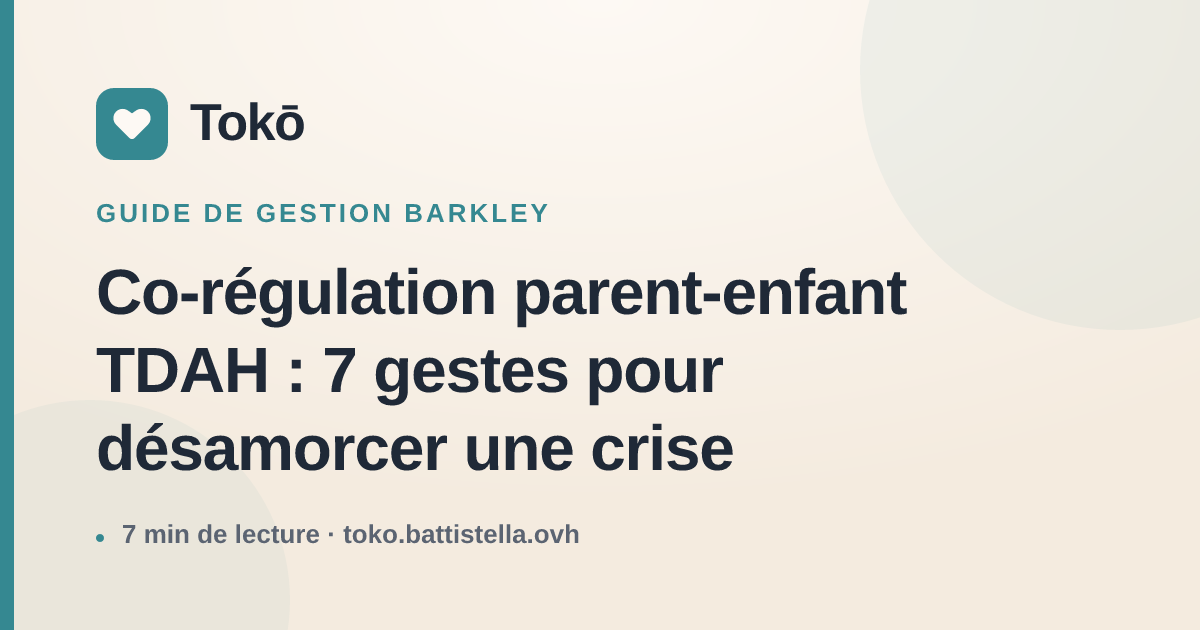
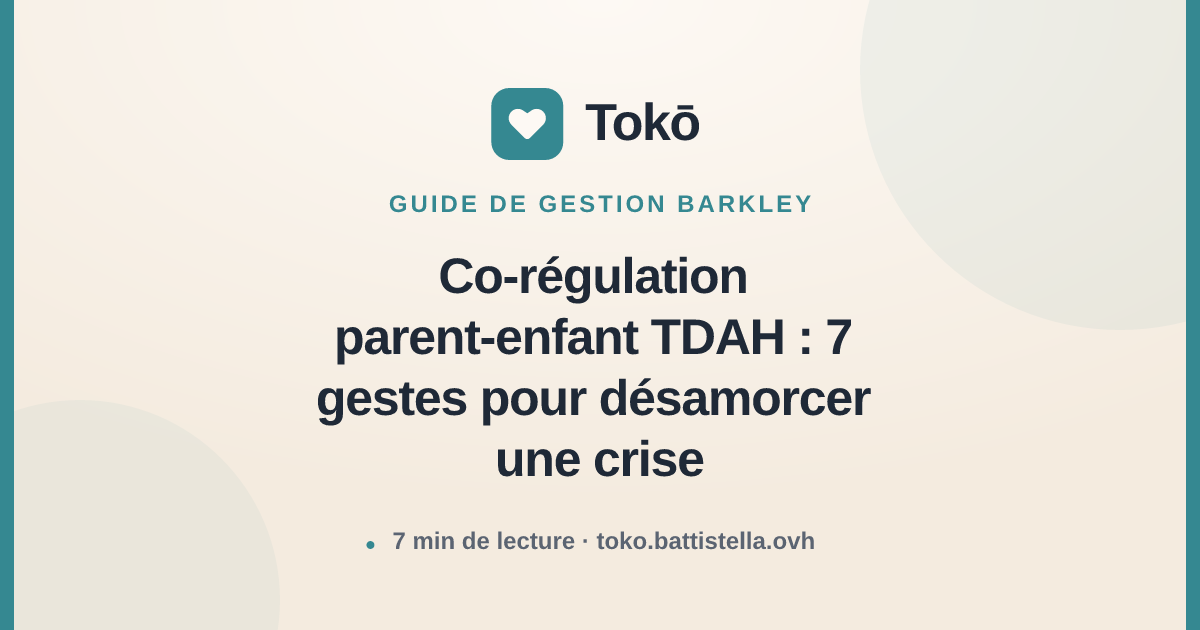
feat: make share previews survive Facebook's mobile card
Sharing an article from the app on Facebook showed the generic Tokō card
with the site's title, and the image itself came back cropped: the
wordmark lost its "T" and the headline its first word.

Two causes, both fixed here.

The URL a signed-in parent copies out of the address bar is
/connaissances/<slug>, but only /ressources/<slug> got the per-article
head injected into the SPA shell — so crawlers fell back to the default
card. Both paths now resolve to the same article, with og:url and the
canonical link still pointing at the public /ressources/<slug>: Facebook
canonicalises a story to og:url, so the shared link lands readers on the
article rather than on a login screen.

Facebook renders a link card in a near-square box on mobile and
centre-crops the 1200x630 image down to roughly 630x630, dropping ~285px
from each side. Both card designs (site-wide and per-article) are now
laid out centred inside a 616px-wide safe band, with only decoration
outside it; the article headline wraps over up to five shorter lines
rather than three full-width ones. The site card drops the right-side
app mockup, which sat where the crop cuts and left no room to centre.

Also emitted for Facebook: og:image:secure_url and og:image:type, the
article:section / published_time / modified_time trio, and a per-article
twitter:image:alt. Card URLs now carry a ?v=<digest of the bytes>, since
Facebook caches a share image by URL and would otherwise keep serving the
card it scraped first.
[…]

diff --git a/apps/api/src/__tests__/article-og.test.ts b/apps/api/src/__tests__/article-og.test.ts
@@ -19,8 +19,15 @@ const entry = {
   title: 'Crise TDAH enfant : que faire ? Guide "complet" | Tokō',
   description: "Comprendre le cerveau TDAH en crise, désamorcer, co-réguler.",
   image: "/og/crise-tdah-enfant-guide-complet.png",
+  imageVersion: "abc12345",
   imageAlt: "Crise TDAH chez l'enfant — Connaissance TDAH · Tokō",
+  section: "Connaissance TDAH",
+  publishedAt: "2026-04-07T00:00:00+00:00",
+  modifiedAt: "2026-04-09T00:00:00+00:00",
 };
+
+const IMAGE_URL =
+  "https://toko.battistella.ovh/og/crise-tdah-enfant-guide-complet.png?v=abc12345";
 
 describe("articleSlugFromPath", () => {
   it("matches an article path", () => {
@@ -29,11 +36,20 @@ describe("articleSlugFromPath", () => {
     expect(articleSlugFromPath("/ressources/mon-article/")).toBe("mon-article");
   });
 
+  it("matches the in-app path a signed-in parent copies out of the URL bar", () => {
+    expect(articleSlugFromPath("/connaissances/rentree-scolaire-tdah-enfant"))
+      .toBe("rentree-scolaire-tdah-enfant");
+    expect(articleSlugFromPath("/connaissances/mon-article/")).toBe("mon-article");
+  });
+
   it("ignores anything that is not a single article segment", () => {
     expect(articleSlugFromPath("/ressources")).toBeNull();
     expect(articleSlugFromPath("/ressources/")).toBeNull();
-    expect(articleSlugFromPath("/connaissances/mon-article")).toBeNull();
+    expect(articleSlugFromPath("/connaissances")).toBeNull();
+    expect(articleSlugFromPath("/connaissances/")).toBeNull();
     expect(articleSlugFromPath("/ressources/a/b")).toBeNull();
+    expect(articleSlugFromPath("/connaissances/a/b")).toBeNull();
+    expect(articleSlugFromPath("/dashboard/mon-article")).toBeNull();
   });
 });
 
@@ -51,13 +67,57 @@ describe("injectArticleOgMeta", () => {
   const html = injectArticleOgMeta(shell, entry, "https://toko.battistella.ovh");
 
   it("points the share image at the article's own card", () => {
-    expect(html).toContain(
-      '<meta property="og:image" content="https://toko.battistella.ovh/og/crise-tdah-enfant-guide-complet.png" />'
-    );
-    expect(html).toContain(
-      '<meta name="twitter:image" content="https://toko.battistella.ovh/og/crise-tdah-enfant-guide-complet.png" />'
-    );
+    expect(html).toContain(`<meta property="og:image" content="${IMAGE_URL}" />`);
+    expect(html).toContain(`<meta name="twitter:image" content="${IMAGE_URL}" />`);
     expect(html).not.toContain("og-image.png");
+  });
+
+  it("carries the Facebook-specific image tags", () => {
+    expect(html).toContain(
+      `<meta property="og:image:secure_url" content="${IMAGE_URL}" />`
+    );
+    expect(html).toContain('<meta property="og:image:type" content="image/png" />');
+    // Both alt tags describe the article's own card, not the site-wide one.
+    expect(html).not.toContain("Tokō — application TDAH pour parents");
+    expect(
+      html.match(new RegExp(`content="${entry.imageAlt}"`, "g"))
+    ).toHaveLength(2);
+  });
+
+  it("dates and files the article the way Facebook reads an article page", () => {
+    expect(html).toContain(
+      'property="article:published_time" content="2026-04-07T00:00:00+00:00"'
+    );
+    expect(html).toContain(
+      'property="article:modified_time" content="2026-04-09T00:00:00+00:00"'
+    );
+    expect(html).toContain(
+      'property="og:updated_time" content="2026-04-09T00:00:00+00:00"'
+    );
+    expect(html).toContain(
+      'property="article:section" content="Connaissance TDAH"'
+    );
+  });
+
+  it("leaves out the article dates an entry does not carry", () => {
+    const bare = injectArticleOgMeta(
+      shell,
+      { ...entry, publishedAt: undefined, modifiedAt: undefined, section: undefined },
+      "https://toko.battistella.ovh"
+    );
+    expect(bare).not.toContain("article:published_time");
+    expect(bare).not.toContain("article:modified_time");
+    expect(bare).not.toContain("article:section");
+  });
+
+  it("shares the public /ressources URL even for the in-app path", () => {
+    // Facebook canonicalises a story to og:url, so a parent who copies
+    // /connaissances/<slug> out of the app still shares the public page.
+    const slug = articleSlugFromPath("/connaissances/crise-tdah-enfant-guide-complet");
+    expect(slug).toBe(entry.slug);
+    expect(html).toContain(
+      'property="og:url" content="https://toko.battistella.ovh/ressources/crise-tdah-enfant-guide-complet"'
+    );
   });
 
   it("rewrites title, description, type, url and canonical", () => {
@@ -87,7 +147,20 @@ describe("injectArticleOgMeta", () => {
   it("falls back to a root-relative image without a known origin", () => {
     const relative = injectArticleOgMeta(shell, entry, null);
     expect(relative).toContain(
-      '<meta property="og:image" content="/og/crise-tdah-enfant-guide-complet.png" />'
+      '<meta property="og:image" content="/og/crise-tdah-enfant-guide-complet.png?v=abc12345" />'
+    );
+    // secure_url only means anything as an absolute https URL.
+    expect(relative).not.toContain("og:image:secure_url");
+  });
+
+  it("serves the card unversioned when the manifest predates the digest", () => {
+    const legacy = injectArticleOgMeta(
+      shell,
+      { ...entry, imageVersion: undefined },
+      "https://toko.battistella.ovh"
+    );
+    expect(legacy).toContain(
+      '<meta property="og:image" content="https://toko.battistella.ovh/og/crise-tdah-enfant-guide-complet.png" />'
     );
   });
 });
@@ -99,6 +172,8 @@ describe("loadArticleOgManifest", () => {
     expect(manifest.size).toBeGreaterThan(0);
     const article = manifest.get("crise-tdah-enfant-guide-complet");
     expect(article?.image).toBe("/og/crise-tdah-enfant-guide-complet.png");
+    expect(article?.imageVersion).toMatch(/^[0-9a-f]{8}$/);
+    expect(article?.section).toBe("Connaissance TDAH");
   });
 
   it("degrades to the default card when the manifest is missing", () => {

diff --git a/apps/api/src/lib/article-og.ts b/apps/api/src/lib/article-og.ts
@@ -4,7 +4,7 @@
 // run the app's JavaScript, so the <meta> tags the React article page sets
 // are invisible to them: every shared resource link would otherwise show the
 // generic Tokō card. Here the SPA fallback rewrites the head of index.html
-// for /ressources/<slug> with that article's title, description and image.
+// for an article path with that article's title, description and image.
 //
 // The manifest and the images are produced by `pnpm --filter @focusflow/web
 // og:articles` from apps/web/src/lib/resources-data.tsx and shipped in the
@@ -20,13 +20,31 @@ export interface ArticleOgEntry {
   /** Root-relative path of the 1200x630 card, e.g. `/og/mon-article.png`. */
   image: string;
   imageAlt: string;
+  /** Digest of the card's bytes, appended as `?v=` to bust scraper caches. */
+  imageVersion?: string;
+  /** Article subject, e.g. "Connaissance TDAH" — Facebook's article:section. */
+  section?: string;
+  /** ISO 8601 timestamps for article:published_time / article:modified_time. */
+  publishedAt?: string;
+  modifiedAt?: string;
 }
 
 const MANIFEST_RELATIVE_PATH = path.join("og", "articles.json");
 
-/** `/ressources/mon-article` → `mon-article`. Ignores anything deeper. */
+/**
+ * `/ressources/mon-article` → `mon-article`. Ignores anything deeper.
+ *
+ * `/connaissances/<slug>` is the same article behind the app's sidebar, and
+ * it is the URL a signed-in parent copies out of the address bar to share.
+ * It resolves to the same card, with og:url pointing at the public
+ * `/ressources/<slug>` — so Facebook attributes the story to the public
+ * page and the people who click it land on the article rather than on a
+ * login screen.
+ */
 export function articleSlugFromPath(pathname: string): string | null {
-  const match = /^\/ressources\/([a-z0-9-]+)\/?$/i.exec(pathname);
+  const match = /^\/(?:ressources|connaissances)\/([a-z0-9-]+)\/?$/i.exec(
+    pathname
+  );
   return match?.[1] ?? null;
 }
 
@@ -112,7 +130,8 @@ export function injectArticleOgMeta(
   entry: ArticleOgEntry,
   origin: string | null
 ): string {
-  const imageUrl = origin ? `${origin}${entry.image}` : entry.image;
+  const version = entry.imageVersion ? `?v=${entry.imageVersion}` : "";
+  const imageUrl = `${origin ?? ""}${entry.image}${version}`;
   const pageUrl = origin ? `${origin}/ressources/${entry.slug}` : "";
 
   let out = html.replace(
@@ -125,10 +144,36 @@ export function injectArticleOgMeta(
   out = setMeta(out, "property", "og:title", entry.title);
   out = setMeta(out, "property", "og:description", entry.description);
   out = setMeta(out, "property", "og:image", imageUrl);
+  // Facebook prefers og:image:secure_url when it is present. It only means
+  // anything as an absolute https URL, so it is dropped when the shell had
+  // no canonical origin to build one from.
+  if (imageUrl.startsWith("https://")) {
+    out = setMeta(out, "property", "og:image:secure_url", imageUrl);
+  } else {
+    out = out.replace(
+      /\n\s*<meta property="og:image:secure_url" content="[^"]*" \/>/i,
+      ""
+    );
+  }
   out = setMeta(out, "property", "og:image:alt", entry.imageAlt);
+
+  // article:* is what Facebook reads off an og:type=article page; without
+  // it the card carries no date and no subject.
+  if (entry.section) {
+    out = setMeta(out, "property", "article:section", entry.section);
+  }
+  if (entry.publishedAt) {
+    out = setMeta(out, "property", "article:published_time", entry.publishedAt);
+  }
+  if (entry.modifiedAt) {
+    out = setMeta(out, "property", "article:modified_time", entry.modifiedAt);
+    out = setMeta(out, "property", "og:updated_time", entry.modifiedAt);
+  }
+
   out = setMeta(out, "name", "twitter:title", entry.title);
   out = setMeta(out, "name", "twitter:description", entry.description);
   out = setMeta(out, "name", "twitter:image", imageUrl);
+  out = setMeta(out, "name", "twitter:image:alt", entry.imageAlt);
 
   if (pageUrl) {
     out = setMeta(out, "property", "og:url", pageUrl);

diff --git a/apps/web/index.html b/apps/web/index.html
@@ -19,7 +19,12 @@
     <meta property="og:url" content="https://toko.battistella.ovh/" />
     <meta property="og:title" content="Tokō — App TDAH enfant pour parents épuisés" />
     <meta property="og:description" content="Routines simplifiées, suivi des symptômes, plan de crise, récompenses. Conçue pour les parents TDAH qui élèvent des enfants TDAH." />
-    <meta property="og:image" content="https://toko.battistella.ovh/og-image.png" />
+    <!-- `?v=` is a manual cache buster: Facebook keeps serving the share
+         image it scraped first, by URL, long after the file changes. Bump it
+         whenever public/og-image.svg is redesigned. -->
+    <meta property="og:image" content="https://toko.battistella.ovh/og-image.png?v=2" />
+    <meta property="og:image:secure_url" content="https://toko.battistella.ovh/og-image.png?v=2" />
+    <meta property="og:image:type" content="image/png" />
     <meta property="og:image:width" content="1200" />
     <meta property="og:image:height" content="630" />
     <meta property="og:image:alt" content="Tokō — application TDAH pour parents" />
@@ -27,7 +32,8 @@
     <meta name="twitter:card" content="summary_large_image" />
     <meta name="twitter:title" content="Tokō — App TDAH enfant pour parents épuisés" />
     <meta name="twitter:description" content="Routines simplifiées, suivi des symptômes, plan de crise, récompenses. Conçue pour les parents TDAH qui élèvent des enfants TDAH." />
-    <meta name="twitter:image" content="https://toko.battistella.ovh/og-image.png" />
+    <meta name="twitter:image" content="https://toko.battistella.ovh/og-image.png?v=2" />
+    <meta name="twitter:image:alt" content="Tokō — application TDAH pour parents" />
 
     <link rel="icon" type="image/svg+xml" href="/favicon.svg" />
     <link rel="apple-touch-icon" href="/apple-touch-icon.png" />

diff --git a/apps/web/src/hooks/use-seo-head.ts b/apps/web/src/hooks/use-seo-head.ts
@@ -68,6 +68,11 @@ export function useSeoHead({
 
     const imgUrl = toAbsoluteUrl(image ?? DEFAULT_OG_IMAGE);
     applyMeta("og:image", imgUrl, "property");
+    // Kept in step with what the server injects for crawlers (see
+    // apps/api/src/lib/article-og.ts), so a page looks the same to a scraper
+    // that does run JavaScript as to one that doesn't.
+    applyMeta("og:image:secure_url", imgUrl, "property");
+    applyMeta("og:image:type", "image/png", "property");
     applyMeta("twitter:card", "summary_large_image");
     applyMeta("twitter:title", title);
     applyMeta("twitter:description", description);
